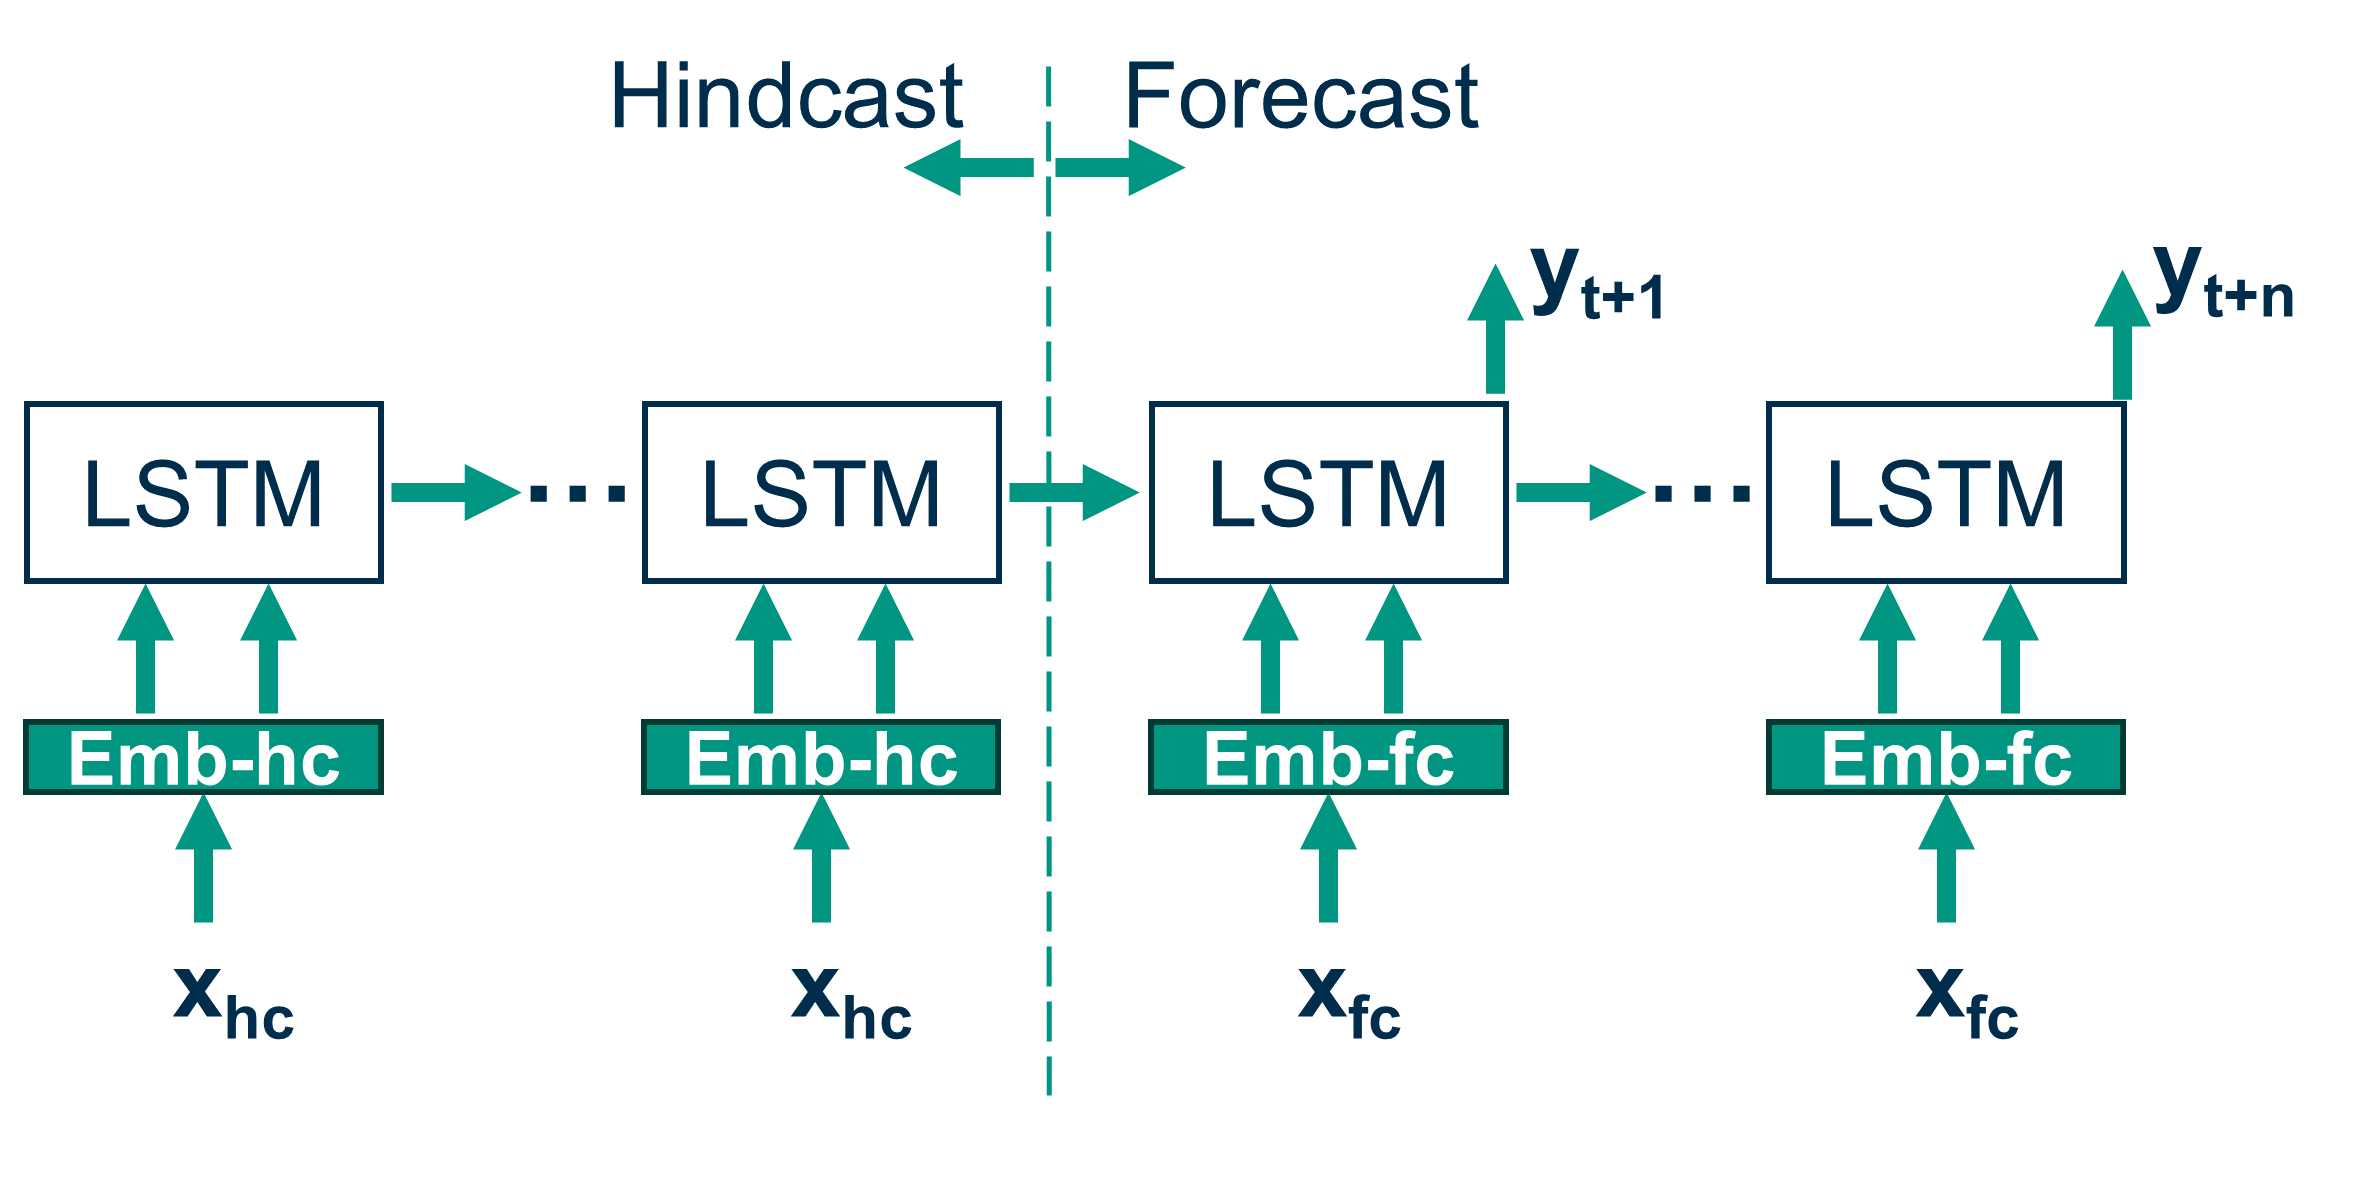
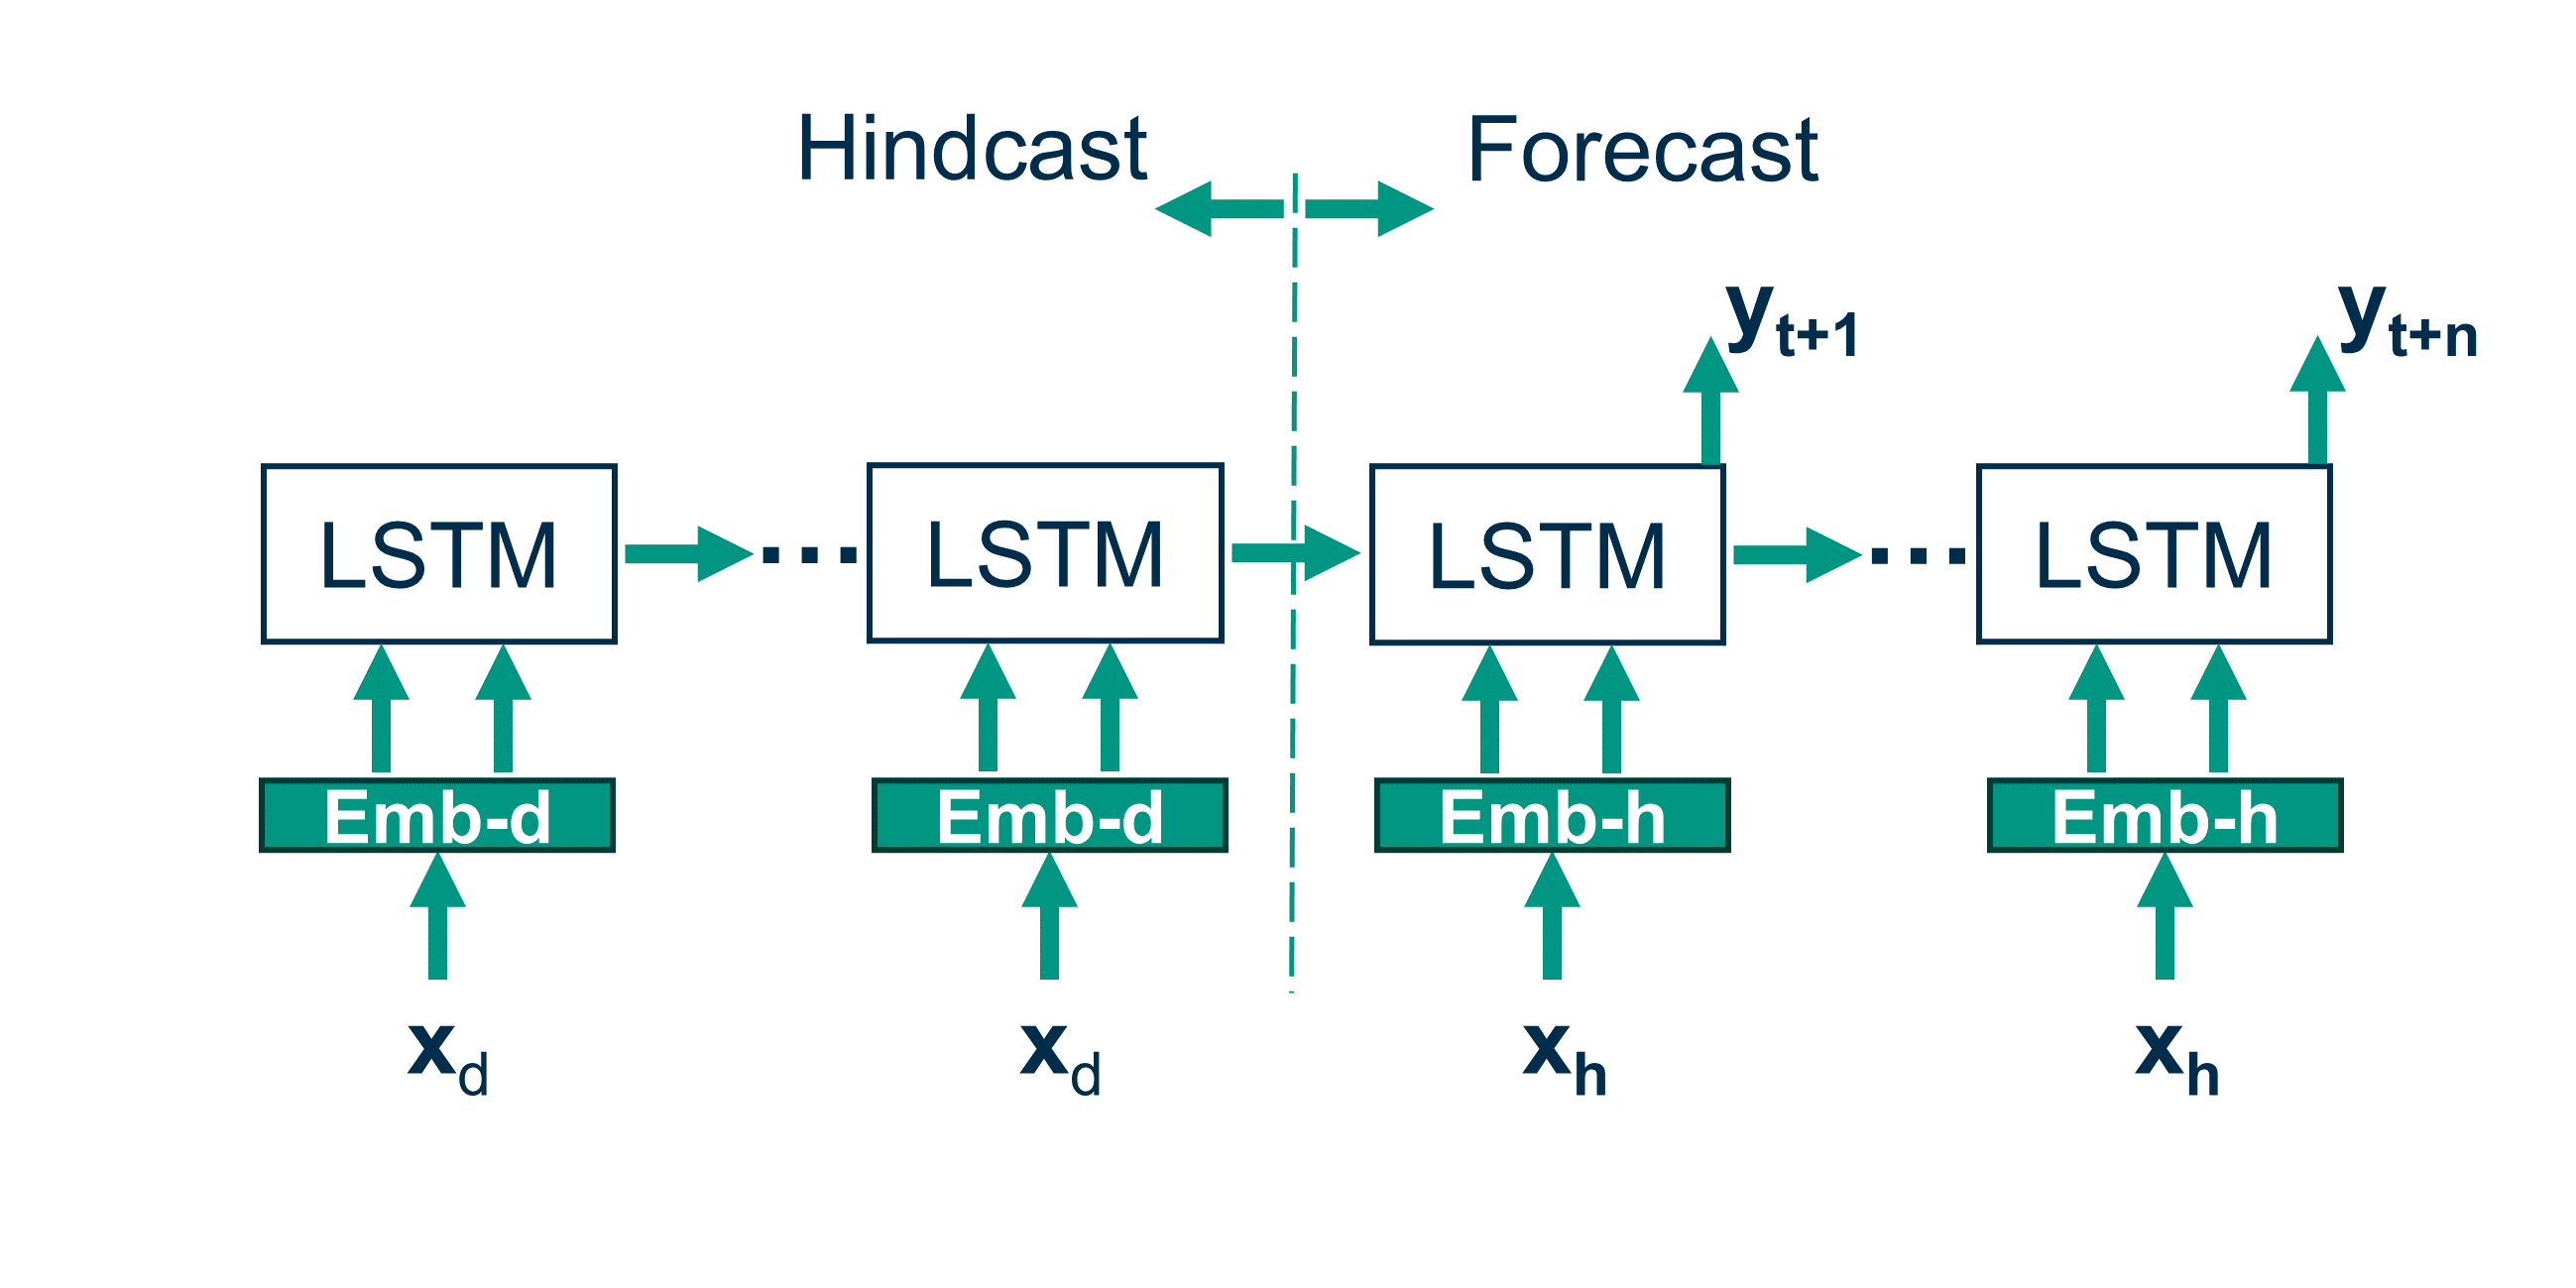
update documentation

diff --git a/docs/source/usage/models.rst b/docs/source/usage/models.rst
@@ -3,61 +3,9 @@ Modelzoo
 
 The following section gives an overview of the implemented models and their possible variations. 
 
+.. toctree::
+   :maxdepth: 2
+   :caption: Modelzoo
 
-Model Classes
--------------
-
-CudaLSTM
-^^^^^^^^
-:py:class:`hy2dl.modelzoo.cudalstm.CudaLSTM` uses the standard PyTorch LSTM implementation. By modifying the configurations, multiple model variations based on the CudaLSTM can be implemented.
-
-Standard case
-   The LSTM cell is used to analyze single-frequency data (e.g. daily data) in simulation mode. 
-
-Multi-frequency
-   By modifying configuration arguments, multiple temporal resolutions (e.g. hourly and daily) can be processed. Depending on the amount of inputs per frequency, different embeddings can be used to map the inputs to a common shared dimension. Details of the configuration arguments related to this model can be found in :ref:`mf_reference` and :ref:`emb_reference`.
-
-   .. figure:: ../_static/mf_lstm.png
-      :alt: Multi-frequency LSTM architecture
-      :align: center
-
-      Multi-frequency LSTM architecture
-
-   Configuration files for multi-frequency approaches can be found in the examples folder in the GitHub repository. For further details of the architecture see: `Acuna Espinoza et al. (2025b) <https://doi.org/10.5194/hess-29-1749-2025>`_. 
-
-Forecast LSTM
-   By modifying configuration arguments, the LSTM cell rolls out continuously through both the hindcast and forecast periods, using specific embedding layers for each case. Details of the configuration arguments related to this model can be found in :ref:`fc_reference` and :ref:`emb_reference`.
-
-   .. figure:: ../_static/fc_lstm.png
-      :alt: Forecast LSTM architecture
-      :align: center
-
-      Forecast LSTM architecture
-
-   Configuration files for the forecast configuration can be found in the examples folder in the GitHub repository.
-
-Nan-handling LSTM
-   By modifying configuration arguments, the LSTM cell can handle groups of missing data. The implemented nan-handling strategies are based on `Gauch et al. (2025) <https://doi.org/10.5194/hess-[phone redacted]>`_. Details of the configuration arguments related to this model can be found in :ref:`nan_reference`.
-
-   .. figure:: ../_static/masked_mean.png
-      :alt: Masked mean nan-handling strategy
-      :align: center
-
-      Masked mean nan-handling strategy.
-
-   Configuration files for nan-handling methods can be found in the examples folder in the GitHub repository.
-
-Further combinations...
-   Combining different approaches is also possible. For example, one can define a configuration to implement a Forecast LSTM with multi-frequency approaches in the hindcast period, plus nan-handling capabilities.
-
-LSTM-MDN: LSTM with Mixture Density Network output layer
-^^^^^^^^^^^^^^^^^^^^^^^^^^^^^^^^^^^^^^^^^^^^^^^^^^^^^^^^
-:py:class:`hy2dl.modelzoo.lstmmdn.LSTMMDN` combines an LSTM network with a Mixture Density Network (MDN) output layer. The MDN layer allows modeling the output as a mixture of probability distributions, enabling probabilistic predictions.
-
-.. figure:: ../_static/mdn_lstm.png
-   :alt: Mixture Density Network LSTM architecture
-   :align: center
-
-   Mixture Density Network LSTM architecture.
-
-Further details can be found in: `Klotz et al. (2022) <https://doi.org/10.5194/hess-26-1673-2022>`_. An example using this model can be found in the notebooks folder in the GitHub repository.
+   modelzoo/cudalstm
+   modelzoo/lstmmdn

diff --git a/docs/source/usage/modelzoo/cudalstm.rst b/docs/source/usage/modelzoo/cudalstm.rst
@@ -1,0 +1,54 @@
+CudaLSTM
+========
+
+:py:class:`hy2dl.modelzoo.cudalstm.CudaLSTM` uses the standard PyTorch LSTM implementation. By modifying the configurations, multiple model variations based on the CudaLSTM can be implemented.
+
+Standard case
+-------------
+   The LSTM cell is used to analyze single-frequency data (e.g. daily data) in simulation mode. 
+
+Multi-frequency
+---------------
+   By modifying configuration arguments, multiple temporal resolutions (e.g. hourly and daily) can be processed. Depending on the amount of inputs per frequency, different embeddings can be used to map the inputs to a common shared dimension. Details of the configuration arguments related to this model can be found in :ref:`mf_reference` and :ref:`emb_reference`.
+
+   .. figure:: ../../_static/mflstm_label.png
+      :alt: MFLSTM with label
+      :align: center
+
+      Multi-frequency LSTM architecture that uses a label to distinguish between the different frequencies.
+
+   .. figure:: ../../_static/mflstm_emb.png
+      :alt: MFLSTM with embeddings
+      :align: center
+
+      Multi-frequency LSTM architecture that use a different embedding for each frequency.
+
+   Configuration files for multi-frequency approaches can be found in the examples folder in the GitHub repository. For further details of the architecture see: `Acuna Espinoza et al. (2025b) <https://doi.org/10.5194/hess-29-1749-2025>`_. 
+
+Forecast LSTM
+-------------
+   By modifying configuration arguments, the LSTM cell rolls out continuously through both the hindcast and forecast periods, using specific embedding layers for each case. Details of the configuration arguments related to this model can be found in :ref:`fc_reference` and :ref:`emb_reference`.
+
+   .. figure:: ../../_static/fc_lstm.png
+      :alt: Forecast LSTM architecture
+      :align: center
+
+      Forecast LSTM architecture
+
+   Configuration files for the forecast configuration can be found in the examples folder in the GitHub repository.
+
+Nan-handling LSTM
+-----------------
+   By modifying configuration arguments, the LSTM cell can handle groups of missing data. The implemented nan-handling strategies are based on `Gauch et al. (2025) <https://doi.org/10.5194/hess-[phone redacted]>`_. Details of the configuration arguments related to this model can be found in :ref:`nan_reference`.
+
+   .. figure:: ../../_static/masked_mean.png
+      :alt: Masked mean nan-handling strategy
+      :align: center
+
+      Masked mean nan-handling strategy.
+
+   Configuration files for nan-handling methods can be found in the examples folder in the GitHub repository.
+
+Further combinations...
+-----------------------
+   Combining different approaches is also possible. For example, one can define a configuration to implement a Forecast LSTM with multi-frequency approaches in the hindcast period, plus nan-handling capabilities.

diff --git a/docs/source/usage/modelzoo/lstmmdn.rst b/docs/source/usage/modelzoo/lstmmdn.rst
@@ -1,0 +1,15 @@
+LSTM-MDN
+========
+
+:py:class:`hy2dl.modelzoo.lstmmdn.LSTMMDN` combines an LSTM network with a Mixture Density Network (MDN) output layer. The MDN layer allows modeling the output as a mixture of probability distributions, 
+enabling probabilistic predictions.
+
+Currently available distributions are: `gaussian` and `asymmetric_laplacian`. Further details can be found in `hy2dl.utils.distributions`
+
+.. figure:: ../../_static/lstm_mdn.png
+   :alt: LSTM with mix density network output layer.
+   :align: center
+
+   LSTM with mix density network output layer.
+
+Further details can be found in: `Klotz et al. (2022) <https://doi.org/10.5194/hess-26-1673-2022>`_. An example using this model can be found in the notebooks folder in the GitHub repository.